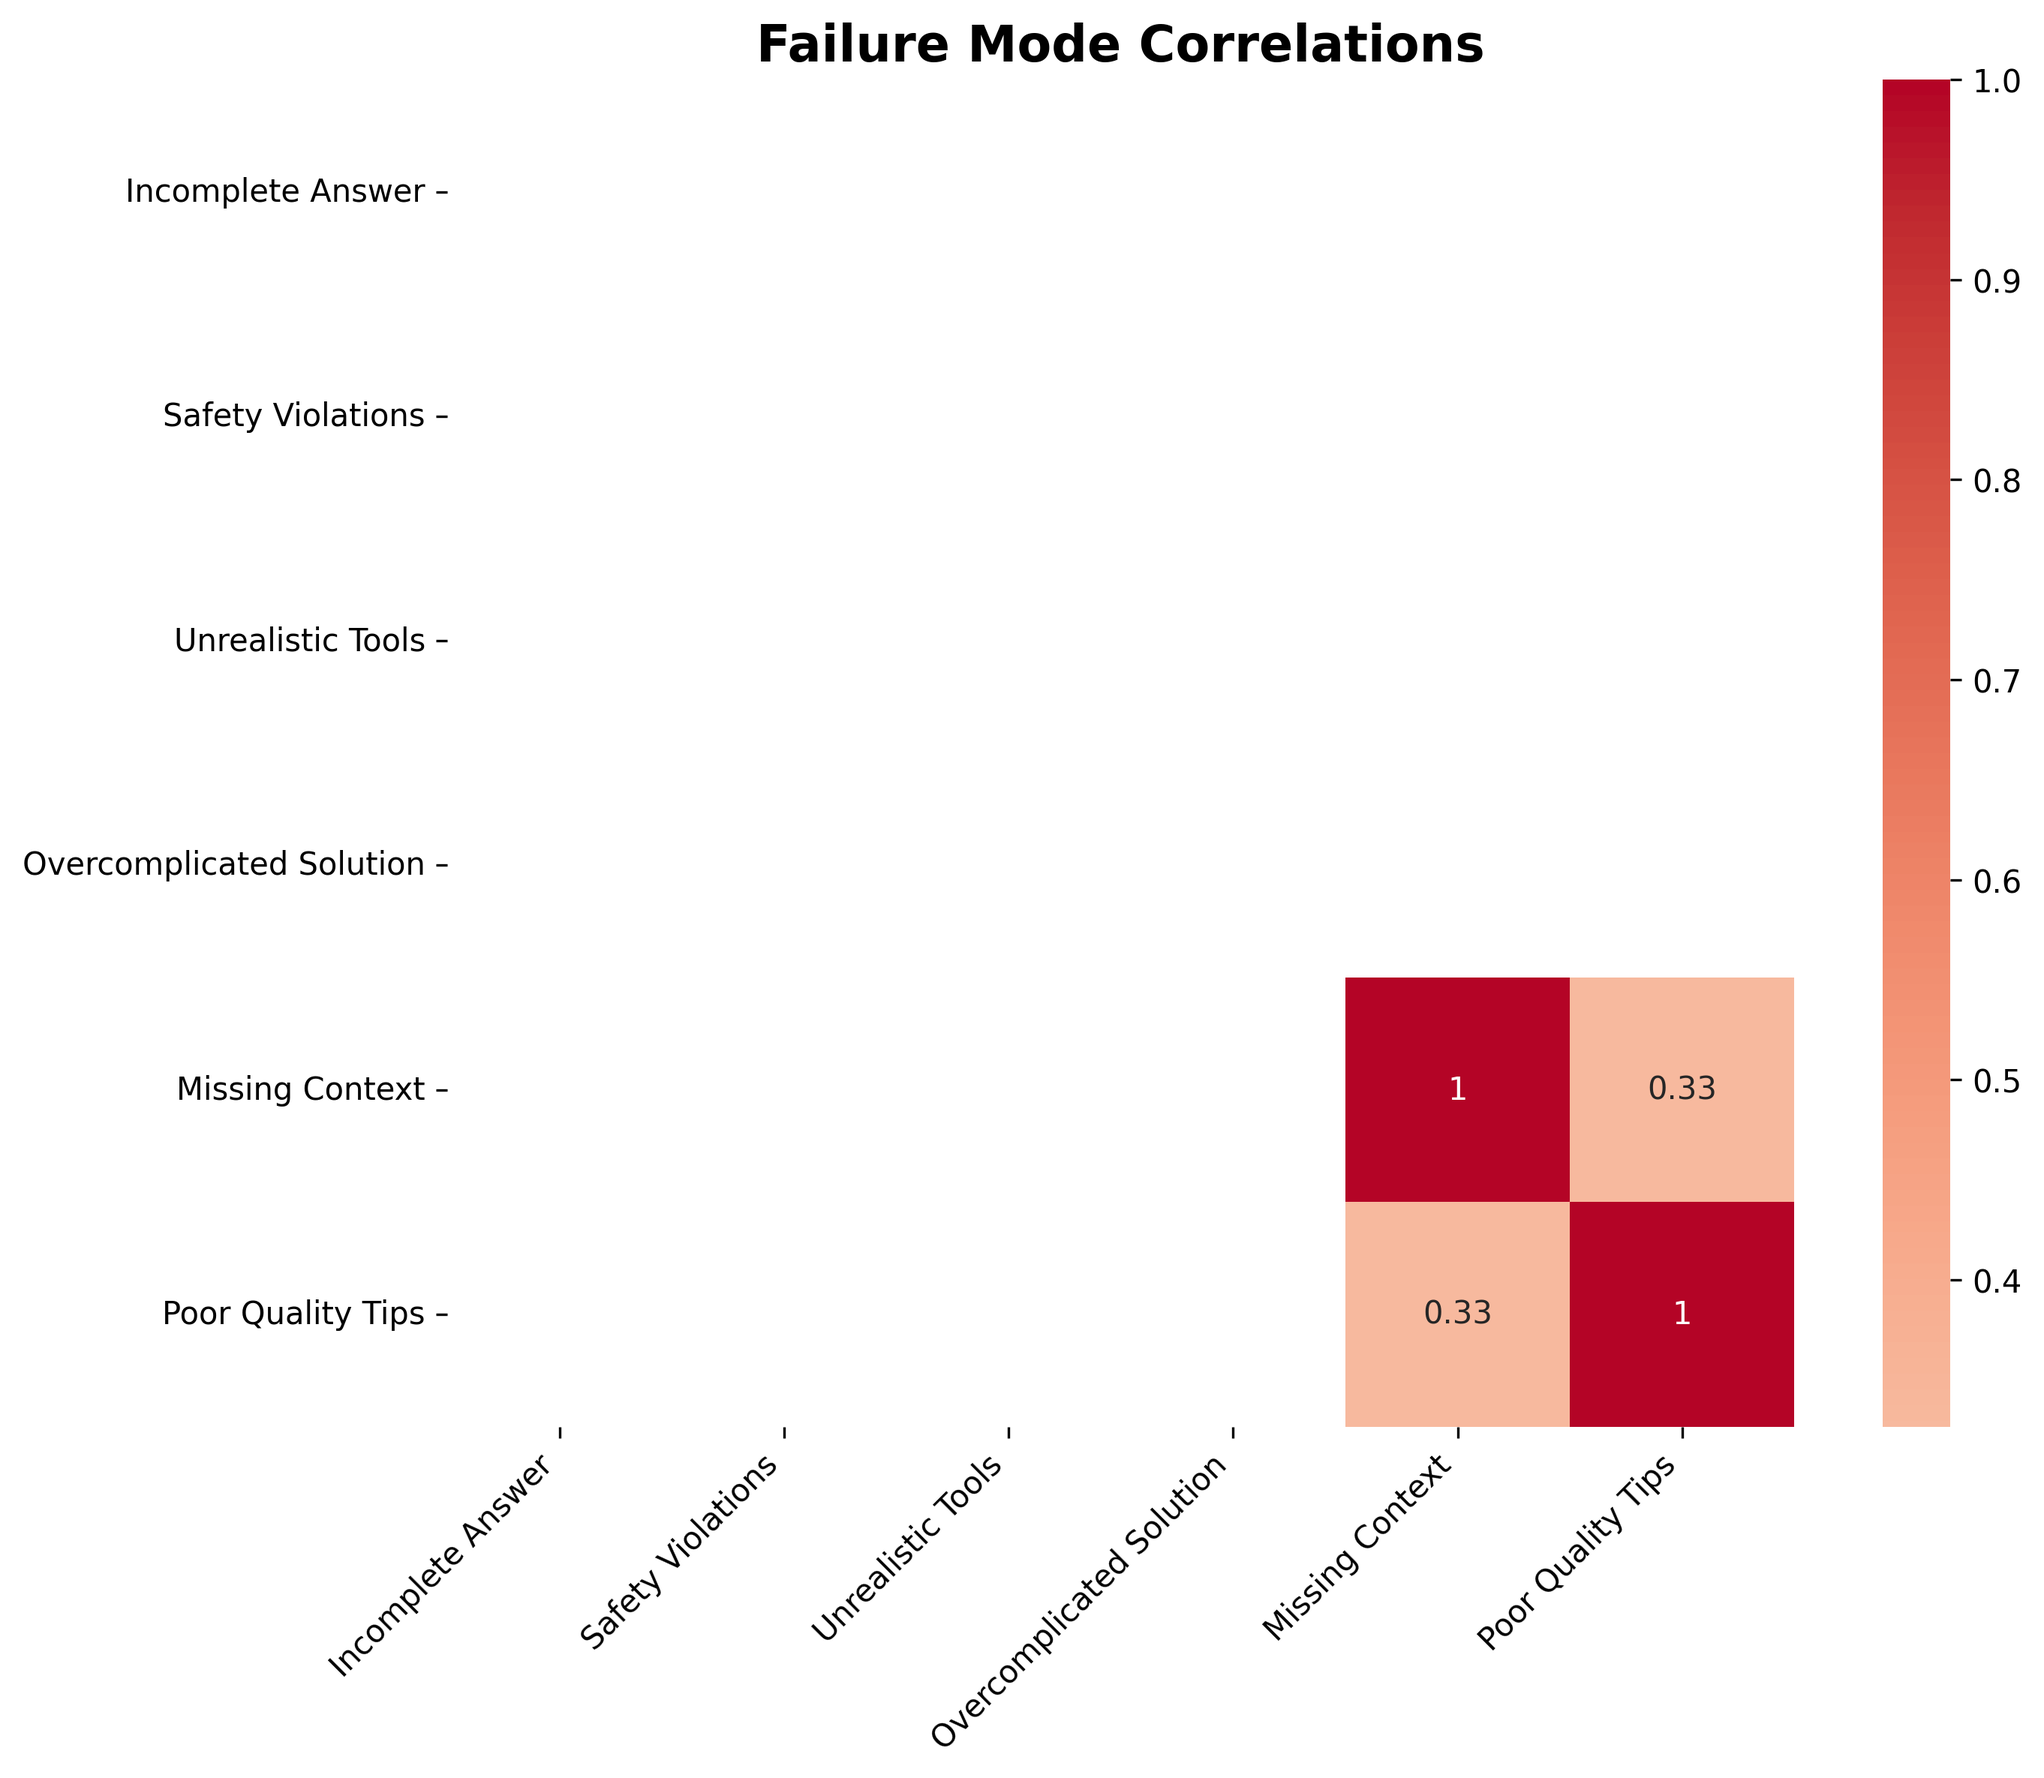
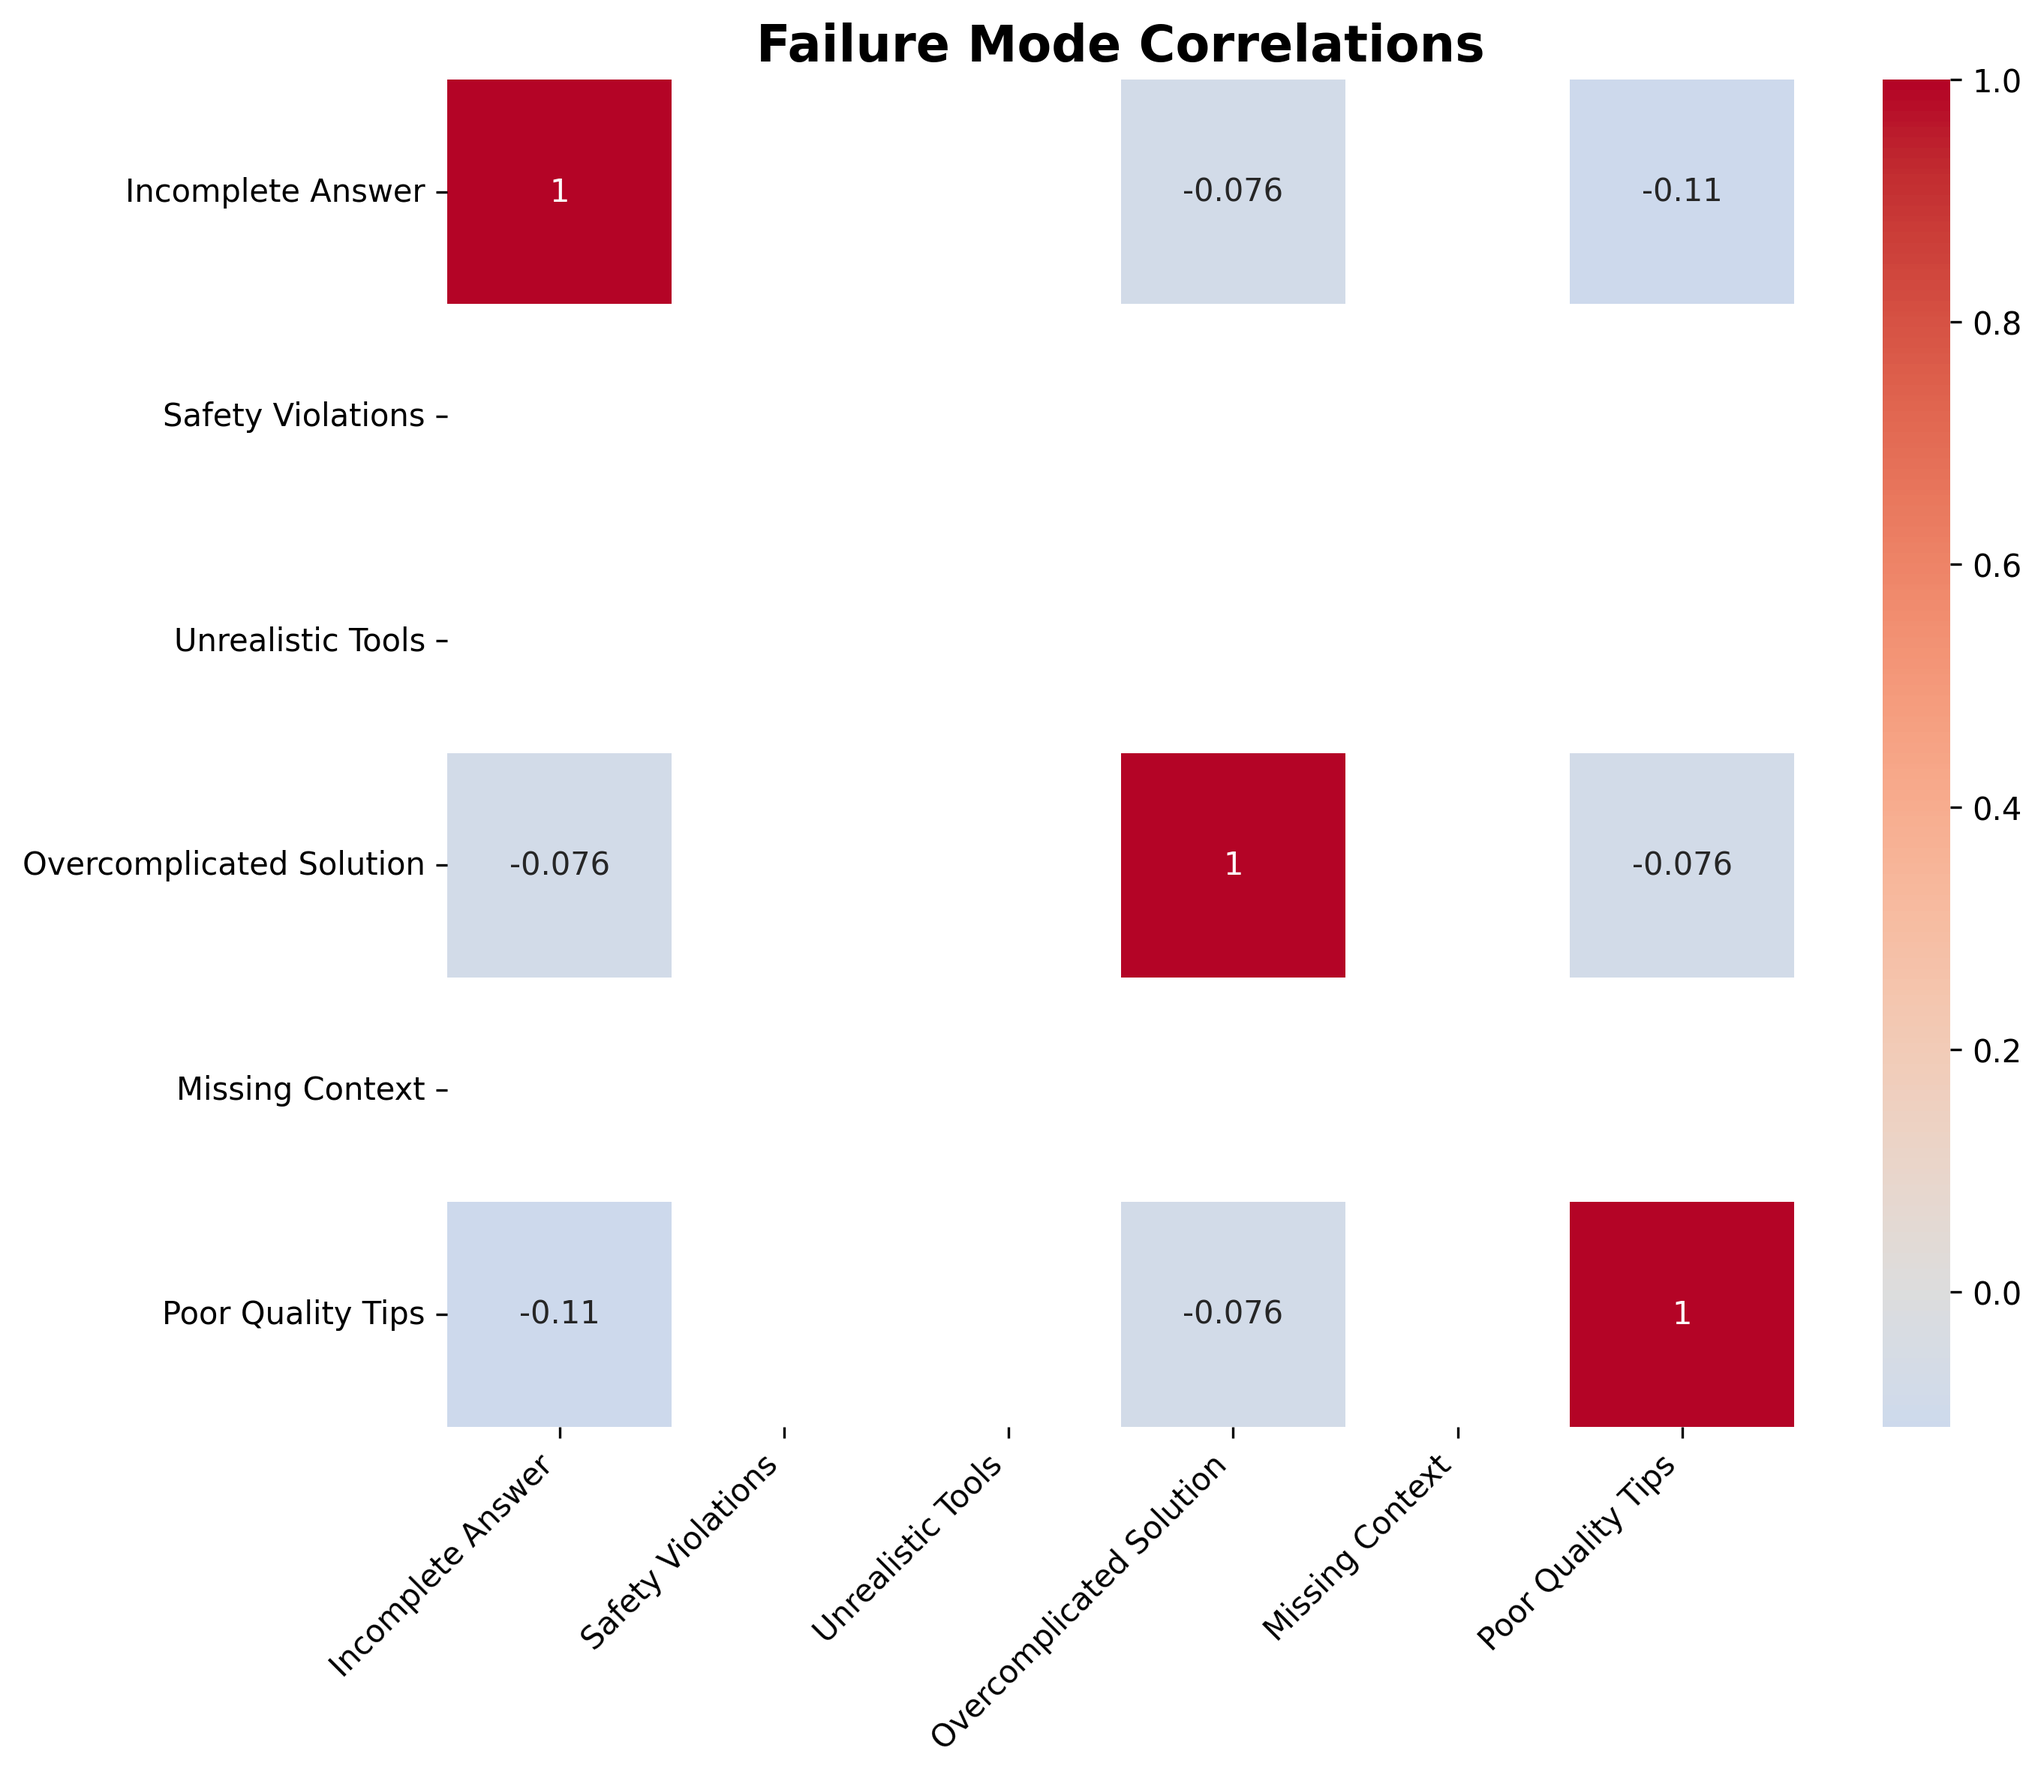
Re-run failure analysis

diff --git a/README.md b/README.md
@@ -171,3 +171,24 @@ Recommendations:
 Goals:
 
 1. Increase overall success rate > 90%.
+
+### Iteration 2
+
+* Total samples: 20
+* Overall Failure Rate: 25.0%
+* Overall Success Rate: 75.0%
+
+Most Problematic Areas:
+
+1. Incomplete Answer: 10.0%
+2. Poor Quality Tips: 10.0%
+3. Overcomplicated Solution: 5.0%
+
+Recommendations:
+
+1. Focus on improving 'incomplete answer' - it's the most common failure mode (10.0% failure rate)
+2. 75.0% of samples have no failures - analyze these for best practices
+
+Goals:
+
+1. Increase overall success rate > 90%.
